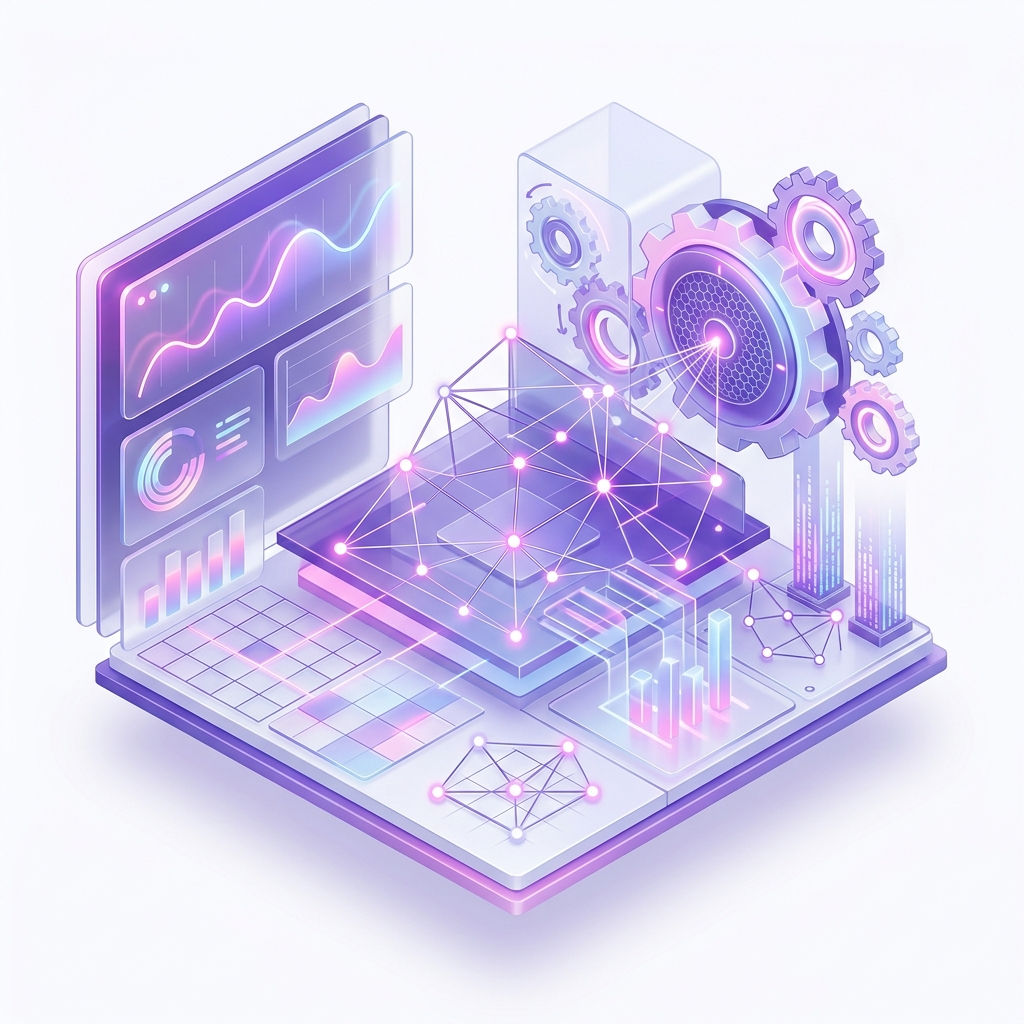
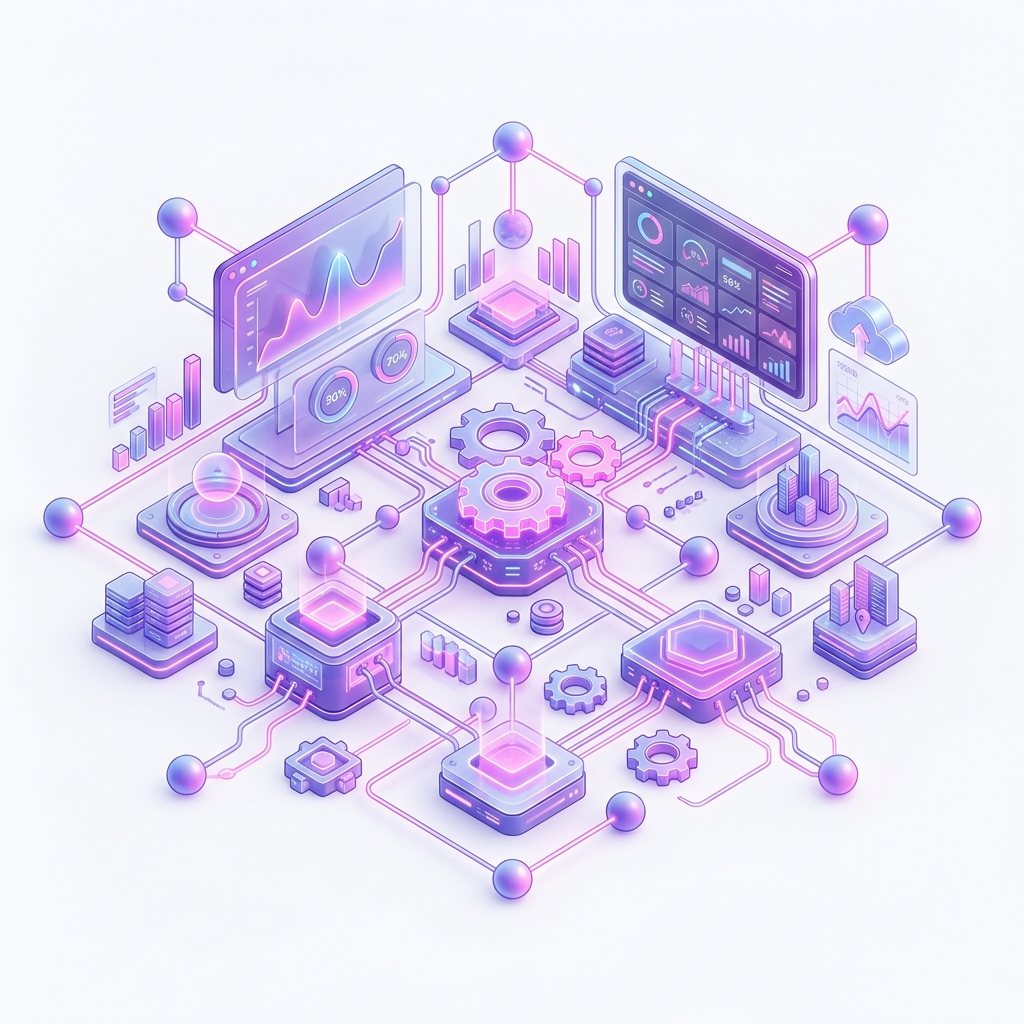
Update brand illustration background to solid white for seamless page merging

diff --git a/src/app/about/page.tsx b/src/app/about/page.tsx
@@ -120,7 +120,7 @@ export default function AboutPage() {
                 <img
                   src="/images/about_us_branding.png"
                   alt="DigitalRaiz Brand Illustration"
-                  className="w-full max-w-[320px] h-auto object-contain hover:scale-105 transition-transform duration-500 rounded-2xl shadow-sm"
+                  className="w-full max-w-[320px] h-auto object-contain hover:scale-102 transition-transform duration-500"
                 />
               </div>
             </div>
